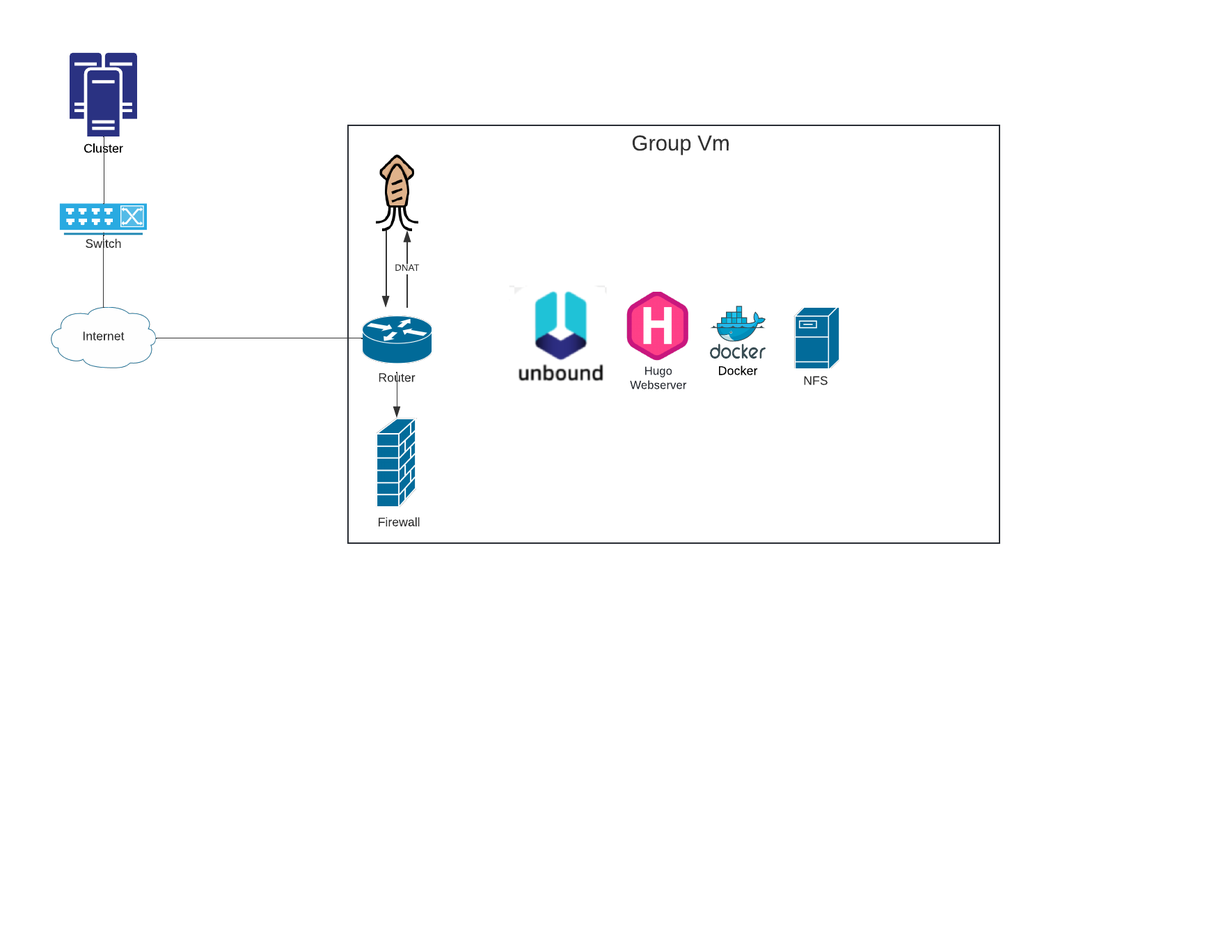
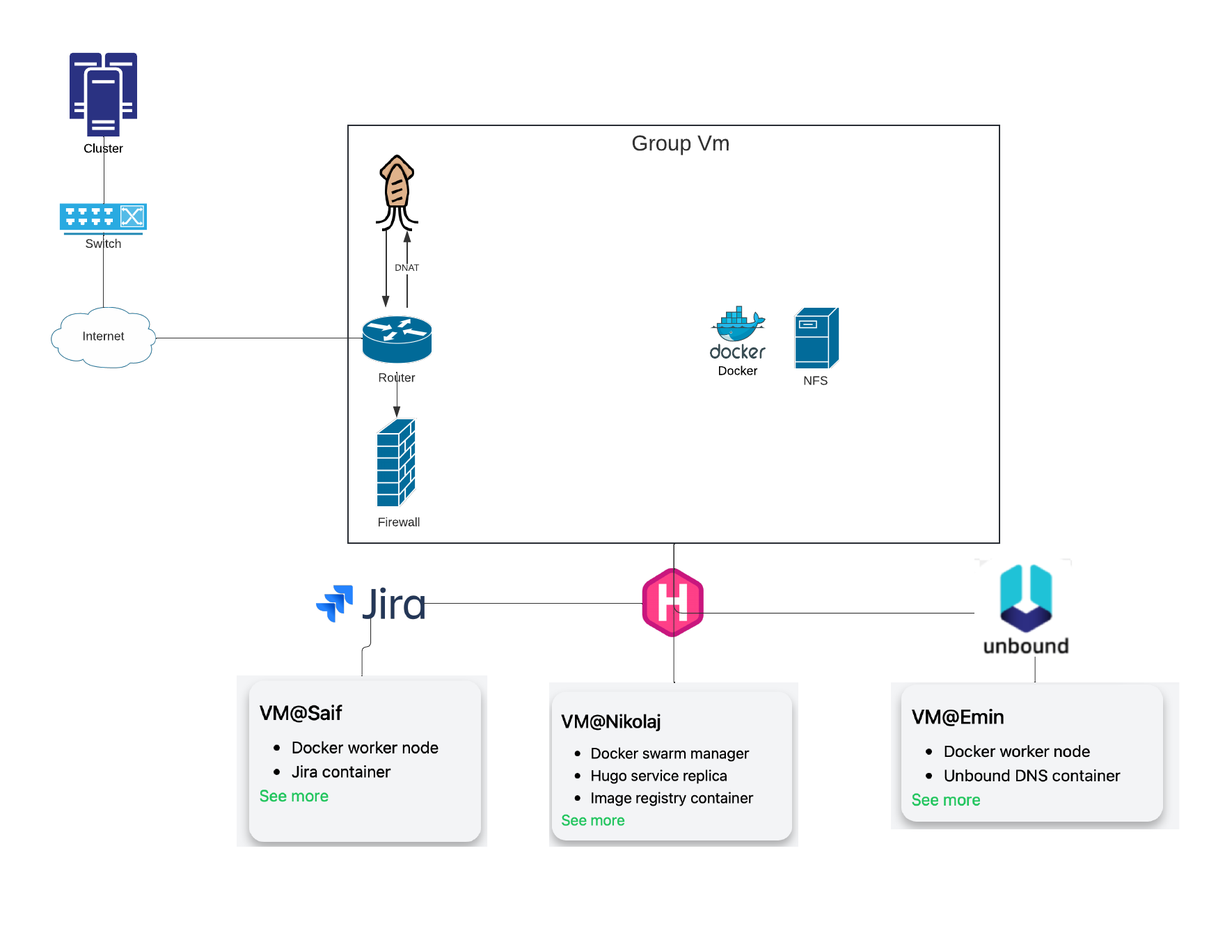
deploy: aa12359d3a3e7bc880986652725c461485541fc4

diff --git a/index.html b/index.html
@@ -113,10 +113,15 @@ for example authentication server, DNS server etc. Create a DMZ(a separate subne
 group number as subnet such as t1g1 is 10.11 and t1g2 is 10.12
 and so on ) <a href=./group-vm>See Custom ingress in section: Group-vm</a></li><li><input checked disabled type=checkbox> Update the firewall to allow limited traffic from DMZ only to
 be able to use that service <a href=./group-vm>See Mad docker in section:
-Group-vm</a></li></ol></li><li>In your individual VM<ol><li><input checked disabled type=checkbox> Setup & Configure the LXD or docker</li><li><input disabled type=checkbox> <del>[optional] get ip address for LXD or Docker from dhcp server on
+Group-vm</a></li></ol></li><li>In your individual VM<ol><li><input checked disabled type=checkbox> Setup & Configure the LXD or docker <a href=./>See Host cards in section:
+T8G1-Skylab</a></li><li><input disabled type=checkbox> <del>[optional] get ip address for LXD or Docker from dhcp server on
 groupVM</del></li><li><input checked disabled type=checkbox> Setup security for your individual server and the containers
 you will run <a href=./nikolaj-vm>See Security in section: nikolaj-vm</a></li><li><input checked disabled type=checkbox> Discuss the security and other networking considerations for keeping containers isolated from local
-network and making them available over the local network <a href=./nikolaj-vm>See Security in section: nikolaj-vm</a></li></ol></li><li>Design a network topology (not configure) for the whole group<ol><li><input disabled type=checkbox> Database server (mysql, mongo,postgres)</li><li><input disabled type=checkbox> Webserver (nginx,apache, caddy)</li><li><input disabled type=checkbox> Real time communication server (jitsi, matrix)</li><li><input disabled type=checkbox> Git server</li><li><input disabled type=checkbox> Any other type of container you think will be relevant</li><li><input disabled type=checkbox> File server (Seafile, owncloud,nextcloud)</li></ol></li><li><input disabled type=checkbox> Decide where in the topology will you place the various servers. Setting up lxd on GroupVM is not a trivial task
+network and making them available over the local network <a href=./nikolaj-vm>See Security in section: nikolaj-vm</a></li></ol></li><li>Design a network topology (not configure) for the whole group<ol><li><input disabled type=checkbox> <del>Database server (mysql, mongo,postgres)</del></li><li><input disabled type=checkbox> Webserver (nginx,apache, caddy) <a href=./topology>See Topology in section:
+Topology</a></li><li><input disabled type=checkbox> <del>Real time communication server (jitsi, matrix)</del></li><li><input disabled type=checkbox> <del>Git server</del></li><li><input checked disabled type=checkbox> Any other type of container you think will be relevant <a href=./topology>See Topology in section:
+Topology</a></li><li><input checked disabled type=checkbox> File server (Seafile, owncloud,nextcloud) <a href=./topology>See Topology in section:
+Topology</a></li></ol></li><li><input checked disabled type=checkbox> Decide where in the topology will you place the various servers.
+Setting up lxd on GroupVM is not a trivial task
 so anything there has to docker but in the documentation you can
 argue if you would rather used lxd and why? <a href=./topology>See Containers in section:
 Topology</a></li><li><input checked disabled type=checkbox> Which virtualization technology between docker and lxd will you
@@ -129,5 +134,255 @@ individually and for the setup as a whole <a href=./group-vm>See Mad docker in s
 vulnerabilities in the server setup of other groups<ol><li><input disabled type=checkbox> <del>You can reconfigure your switch(just add the vlan of the group
 so that you can get ip from their dhcp) to access other groups local network in the class</del></li><li><input disabled type=checkbox> <del>Then you can run these vulnerability scanners like nmap and nikto to find out more about their network,
 services etc.</del></li><li><input disabled type=checkbox> <del>Document your findings, vulnerabilities and suggest way to protect/attack the vulnerabilities</del></li></ol></li></ol><p>62501 Linux Server and Network Course at DTU, spring 2022 edition.</p><h2 id=t8g1-skylab>T8G1-Skylab</h2><hr><h3 id=host-cards>Host cards</h3><p>This configuration contains four docker worker nodes with two of them
-assigned the swarm managing role.</p><p><carcontainer id=singlecard><span class=vm-card></span><div class=card><h2>VM@Group</h2><ul id=double><span class=group-list></span><li>Docker swarm manager</li><li>Squid proxy</li><li>Firewall</li><li>DHCP server</li></ul><a href=Group-vm>See more</a></div></p></div><div class=cardContainer><div class=card><h2>VM@Saif</h2><ul id=single><span class=student-list></span><li>Docker worker</li><li>Jira container</li></ul><a href=saif-vm>See more</a></div><div class=card><h2>VM@Nikolaj</h2><ul id=single><span class=student-list></span><li>Docker swarm manager</li><li>Hugo replica</li><li>Image registry</li></ul><a href=nikolaj-vm>See more</a></div><div class=card><h2>VM@Emin</h2><ul id=single><span class=student-list></span><li>Docker worker</li><li>Unbound DNS</li></ul><a href=emin-vm>See more</a></div></div><h2 id=read-the-reportt8g1-skylab-repporthtml><a href=t8g1-skylab-repport.html>Read the report</a></h2><hr class="border-b-2 border-gray-400 mt-8 mx-4"><div class="font-sans flex justify-between content-center px-4 pb-12"><div class=text-left></div><div class=text-right><p><a href=./group-vm class="break-normal text-base md:text-sm text-green-500 font-bold no-underline hover:underline">Next
+assigned the swarm managing role.</p><p><carcontainer id=singlecard><span class=vm-card></span><div class=card><h2>VM@Group</h2><ul id=double><span class=group-list></span><li>Docker swarm manager</li><li>Squid proxy</li><li>Firewall</li><li>DHCP server</li></ul><a href=group-vm>See more</a></div></p></div><div class=cardContainer><div class=card><h2>VM@Saif</h2><ul id=single><span class=student-list></span><li>Docker worker</li><li>Jira container</li></ul><a href=saif-vm>See more</a></div><div class=card><h2>VM@Nikolaj</h2><ul id=single><span class=student-list></span><li>Docker swarm manager</li><li>Hugo replica</li><li>Image registry</li></ul><a href=nikolaj-vm>See more</a></div><div class=card><h2>VM@Emin</h2><ul id=single><span class=student-list></span><li>Docker worker</li><li>Unbound DNS</li></ul><a href=emin-vm>See more</a></div></div><h2 id=read-the-reportt8g1-skylab-repporthtml><a href=t8g1-skylab-repport.html>Read the report</a></h2><h1 id=group-vm>Group VM</h1><h2 id=rootless-docker>Rootless docker</h2><hr><p>Installing docker on our group vm requires carefull considerations regarding the security measure already implemented.
+If a
+rootless docker principle is
+not established on the docker host, any container running will have root privileges which isn&rsquo;t really an issue for
+veteran sysadmins that knows have to restrict access to the docker daemon using aswell firewall or custom docker
+registries to allow only vetted and verified container images to run, but in the hands of non-experienced employee a
+non-rootless docker client will run any code within any docker image.
+The second major
+concern is regarding
+the iptables chains and rules applied to the group vm acting as the network&rsquo;s firewall. The group vm acts as a router
+for our
+internal network and routes network traffic between clients and forwards client trafic to the internet using Network
+Address so that any packets originating from our clients destined to the internet will have their source headers
+translated to that if the internet facing router i.e. our group host. Upon starting the docker daemon, the socket
+responsible for talking to the docker client service and the containers within, new docker specific chains and rules
+gets
+applied to the iptables with the <code>-I</code> prefix for insertion. This is not a major concern if your aware of
+this fact, but the <code>FORWARD</code> chain policy gets set to <code>DROP</code>
+requiring
+manual
+configuration to any
+docker host also acting as a router.
+From docker documentation this iptables rule is supplied to help reenable ip forwarding:</p><div class=highlight><pre style=color:#f8f8f2;background-color:#272822;-moz-tab-size:4;-o-tab-size:4;tab-size:4><code class=language-Sh data-lang=Sh> $ iptables -I DOCKER-USER -i src_if -o dst_if -j ACCEPT
+</code></pre></div><p>We&rsquo;ve opted to run the docker in root mode for a few reasons:</p><ol><li>We&rsquo;re under development and only configurations and log files could contain sensitive information about the
+networks' inner workings, parameters that would resemble many other networks thus if there were to be an exploit
+in our parameters we would likely be able to mitigate these before production.</li><li>Being forced to make the aforementioned critical considerations allows for a good learning environment, producing
+a highly skilled, security oriented IT staff.</li><li>Docker swarm isn&rsquo;t supported under rootless docker mode.</li></ol><h2 id=squid>Squid</h2><hr><h3 id=1-installing-docker-and-moving-squid-into-docker>1. Installing Docker and moving squid into docker:</h3><p>Using the default image registry supplied with docker, we pull and run the <code>ubuntu:squid</code> container using
+this run configuration to enable host network traficking directly to the squid container:</p><div class=highlight><pre style=color:#f8f8f2;background-color:#272822;-moz-tab-size:4;-o-tab-size:4;tab-size:4><code class=language-Sh data-lang=Sh>$ docker run -d --name squid -p  <span style=color:#ae81ff>\
+</span><span style=color:#ae81ff></span>         --volume /etc/squid/squid.conf:/etc/squid/squid.conf <span style=color:#ae81ff>\
+</span><span style=color:#ae81ff></span>         --volume /srv/docker/squid/log:/var/log/squid <span style=color:#ae81ff>\
+</span><span style=color:#ae81ff></span>         --volume /srv/docker/squid/cache:/var/cache/squid <span style=color:#ae81ff>\
+</span><span style=color:#ae81ff></span>         -e TZ<span style=color:#f92672>=</span>Europe/Copenhagen <span style=color:#ae81ff>\
+</span><span style=color:#ae81ff></span>         ubuntu/squid:latest
+</code></pre></div><h2 id=proxy>Proxy</h2><hr><h3 id=2-pass-all-traffic-from-group-vm-through-squid-and-adjust-firewall>2. Pass all traffic from group VM through squid and adjust firewall:</h3><p>Below configuration implements policy routing for separate gateway and
+squid hosts</p><div class=highlight><pre style=color:#f8f8f2;background-color:#272822;-moz-tab-size:4;-o-tab-size:4;tab-size:4><code class=language-Sh data-lang=Sh><span style=color:#75715e># IPv4 address of proxy</span>
+PROXYIP4<span style=color:#f92672>=</span> 192.168.0.10
+
+<span style=color:#75715e># IPv6 address of proxy</span>
+PROXYIP6<span style=color:#f92672>=</span> fe80:dead:beef::10
+
+<span style=color:#75715e># interface facing clients</span>
+CLIENTIFACE<span style=color:#f92672>=</span> eth0
+
+<span style=color:#75715e># arbitrary mark used to route packets by the firewall. May be anything \</span>
+<span style=color:#75715e># from 1 to 64.</span>
+FWMARK<span style=color:#f92672>=</span> <span style=color:#ae81ff>2</span>
+
+
+<span style=color:#75715e># permit Squid box out to the Internet</span>
+iptables -t mangle -A PREROUTING -p tcp --dport <span style=color:#ae81ff>80</span> -s $PROXYIP4 -j ACCEPT
+ip6tables -t mangle -A PREROUTING -p tcp --dport <span style=color:#ae81ff>80</span> -s $PROXYIP6 -j ACCEPT
+
+<span style=color:#75715e># mark everything else on port 80 to be routed to the Squid box</span>
+iptables -t mangle -A PREROUTING -i $CLIENTIFACE -p tcp --dport <span style=color:#ae81ff>80</span> -j <span style=color:#ae81ff>\
+</span><span style=color:#ae81ff></span>MARK --set-mark $FWMARK
+iptables -t mangle -A PREROUTING -m mark --mark $FWMARK -j ACCEPT
+ip6tables -t mangle -A PREROUTING -i $CLIENTIFACE -p tcp --dport <span style=color:#ae81ff>80</span> -j <span style=color:#ae81ff>\ </span>
+MARK --set-mark $FWMARK
+ip6tables -t mangle -A PREROUTING -m mark --mark $FWMARK -j ACCEPT
+
+<span style=color:#75715e># NP: Ensure that traffic from inside the network is allowed to loop \  </span>
+<span style=color:#75715e>#back inside again.</span>
+iptables -t filter -A FORWARD -i $CLIENTIFACE -o $CLIENTIFACE -p tcp <span style=color:#ae81ff>\ </span> 
+--dport <span style=color:#ae81ff>80</span> -j ACCEPT
+ip6tables -t filter -A FORWARD -i $CLIENTIFACE -o $CLIENTIFACE -p tcp <span style=color:#ae81ff>\ </span>
+ --dport <span style=color:#ae81ff>80</span> -j ACCEPT
+</code></pre></div><h3 id=3-pro-and-cons-to-using-a-proxy-for-all-traffic>3. Pro and cons to using a proxy for all traffic:</h3><p>There are several pros and cons to using a proxy server. Security wise, a proxy server helps with protecfting a clients computer. It works like a relay between the browser and the website, since the browser doesn&rsquo;t directly speak to the website, it has to go through the proxy first. The reason for the proxy to act as a relay is if the website tries something malicious, it will hit the proxy server and not the clients computer. A proxy server can also give a faster browsing experience on the clints most used sites, since a proxy server stores a local cache. Even when managing an office or a school, can a proxy server have its uses. By running all the workers/students browsing through the proxy, an administrator can easily monitor the webtraffic, since all browsing has to go through the proxy. Not only that a proxy server can also use to block specific websites eg. malicious websites, or even social media websites, to keep your employees from entering them.<br>What is then bad about proxy servers? Well not much, but if the provider of the proxy server has malicious intent, it could cause harm for the client. As mentioned earlier, a proxy server keeps a cache for a faster browsing experience and to save bandwidth. THe problem with that is it could also store private information like passwords and other details, which the provider of the proxy server can have or gain access to. For that reason it is important to have trusted provider, or create a proxy server inhouse.</p><h2 id=nfs>NFS</h2><hr><h3 id=4-have-a-common-folder-for-the-group-to-share-files-and-logs>4. Have a common folder for the group to share files and logs</h3><p>Firstly we create a folder for every individual on our group vm /usr/local/share with this kind of folder structure:</p><pre><code>/usr/local/share
+└─── nik
+│    │   files
+│    │   etc...
+│    └─  subfolders
+│   
+└─── emin
+│    │   files
+│    │   etc...
+│    └─  subfolders
+│
+└─── saif
+│     │   files
+│     │   etc...
+│     └─  subfolders
+│
+└─── shared
+      │   saif-logs.txt
+      │   emin-logs.txt
+      │   nik-logs.txt
+</code></pre><p>We want it so everyone can work within their own folders, and then use the share folder to share logs and other files. We want to make sure everyone only has access to their individual folder, while they all have access to the share folder. Although they should only be able to modify and delete their own files in the share folder.<br>First we want to make sure permissions are correct, and we start by adding a group, and a user for each individual. We then assign each individual to their own group and to the main group.</p><div class=highlight><pre style=color:#f8f8f2;background-color:#272822;-moz-tab-size:4;-o-tab-size:4;tab-size:4><code class=language-sh data-lang=sh>$ groupadd t8g1-skylab
+$ groupadd emin/nik/saif
+</code></pre></div><div class=highlight><pre style=color:#f8f8f2;background-color:#272822;-moz-tab-size:4;-o-tab-size:4;tab-size:4><code class=language-sh data-lang=sh>$ useradd emin/nik/saif
+</code></pre></div><div class=highlight><pre style=color:#f8f8f2;background-color:#272822;-moz-tab-size:4;-o-tab-size:4;tab-size:4><code class=language-sh data-lang=sh>$ usermod -a -G t8g1-skylab emin/nik/saif
+$ usermod -a -G emin/nik/saif emin/nik/saif
+</code></pre></div><p>After adding groups and assigning the individual users to the desired group we assign each directory to a group.</p><div class=highlight><pre style=color:#f8f8f2;background-color:#272822;-moz-tab-size:4;-o-tab-size:4;tab-size:4><code class=language-sh data-lang=sh>$ chgrp -R emin/nik/saif /usr/local/share/<span style=color:#f92672>(</span>emin/nik/saif<span style=color:#f92672>)</span>
+$ chgrp -R t8g1-skylab /usr/local/share/shared
+</code></pre></div><p>After assigning each directory to a group, we can then set permissions.</p><div class=highlight><pre style=color:#f8f8f2;background-color:#272822;-moz-tab-size:4;-o-tab-size:4;tab-size:4><code class=language-sh data-lang=sh>$ chmod g+w /usr/local/share/<span style=color:#f92672>(</span>emin/nik/saif<span style=color:#f92672>)</span>
+$ chmod g+w /usr/local/share/shared
+</code></pre></div><p>Now each individual has access to their own directory, and the all have access to the shared directory. Now we have to make it so only the creator of the file in the shared direcotry can modify it.</p><div class=highlight><pre style=color:#f8f8f2;background-color:#272822;-moz-tab-size:4;-o-tab-size:4;tab-size:4><code class=language-sh data-lang=sh>chmod +t /usr/local/share/shared
+</code></pre></div><p>We then setup an nfs server and mount our individual folder and the shared folder on our individual vms. We setup the nfs server on our group vm, and make sure we give rw access, so if the user mounting the nfs is in the correct group, he or she shoud have rw access.<br>To mount the nfs filesystem we need to have the nfs client package installed.</p><div class=highlight><pre style=color:#f8f8f2;background-color:#272822;-moz-tab-size:4;-o-tab-size:4;tab-size:4><code class=language-sh data-lang=sh>$ sudo apt install nfs-common
+</code></pre></div><p>Then we mount:</p><div class=highlight><pre style=color:#f8f8f2;background-color:#272822;-moz-tab-size:4;-o-tab-size:4;tab-size:4><code class=language-sh data-lang=sh>$ sudo mount -t nfs 192.168.165.1:/usr/local/share/<span style=color:#f92672>(</span>shared_or_emin...<span style=color:#f92672>)</span> /the_directory_we_want_to_mount_it_on_local_machine
+</code></pre></div><p>We can now through our own machine access our directories and the shared directory</p><h2 id=custom-ingress>Custom ingress</h2><hr><h3 id=6-install-a-service-in-docker-of-your-choosing-as-group-which-you>6. Install a service in docker of your choosing as group which you</h3><p>think will need to share amongst the group,
+for example authentication server, DNS server etc. Create a DMZ(a separate subnet –maybe a 10 subnet with your
+group number as subnet such as t1g1 is 10.11 and t1g2 is 10.12 and so on )</p><p>We&rsquo;ve opted to present a static website using Hugo and its official docker container as a service on the docker swarm.
+The
+service is created and attached to a
+custom ingress network which is a an overlay type network exclusive for docker nodes running in swarm mode. The ingress
+network and any other custom overlay networks are connected to the docker daemons physical network on each
+individiul node through a virtual bridge <code>docker_gwbridge</code> enabling each node accept trafic destined for
+the swarm service even when no task is running on the specific node. This relieves
+the need
+for for
+manually
+creating a subnet or DMZ zone on our dhcp
+server and negates the need for manipulating the iptables in our firewall, since this is done by the docker service. A
+docker swarm automatically
+initializes
+an overlay network called <code>ingress</code> which we reconfigured using the bellow commands:</p><div class=highlight><pre style=color:#f8f8f2;background-color:#272822;-moz-tab-size:4;-o-tab-size:4;tab-size:4><code class=language-Sh data-lang=Sh> $ docker network rm ingress
+ $ docker network create <span style=color:#ae81ff>\
+</span><span style=color:#ae81ff></span>    --driver overlay <span style=color:#ae81ff>\
+</span><span style=color:#ae81ff></span>    --ingress <span style=color:#ae81ff>\
+</span><span style=color:#ae81ff></span>    --subnet<span style=color:#f92672>=</span>10.81.0.0/16 <span style=color:#ae81ff>\
+</span><span style=color:#ae81ff></span>    --gateway<span style=color:#f92672>=</span>10.81.0.2 <span style=color:#ae81ff>\
+</span><span style=color:#ae81ff></span>    --opt com.docker.network.driver.mtu<span style=color:#f92672>=</span><span style=color:#ae81ff>1200</span> <span style=color:#ae81ff>\
+</span><span style=color:#ae81ff></span>    t8g1-ingress
+</code></pre></div><p>The ingress network, and any
+overlay type
+networks encrypts management trafic between the nodes rotating the AES key every 12 hours. A docker swarm
+also allows for splitting management and data trafic onto separate network interfaces using the
+<code>&ndash;advertise-addr</code> and <code>&ndash;datapath-addr</code> for each node when joining the swarm or at swarm
+initialization.
+Overlay networks such as the ingress network and any custom overlay networks acts
+as a
+load-balancing proxy for optimizing connections to the services within them, which a: improves loading time for
+requests to services with replicas i.e. multiple, indentical and independent tasks of a single service
+distributed in the swarm and b:
+enables
+sys-admins to create custom policies for updating services allowing rules to keep a certain amount of tasks running
+at all times during the update process and thus increasing availability to the service.<br>Only custom overlay networks i.e. networks created without the parameter and option: <code>&ndash;mode ingress</code> permits
+setting
+the
+attachable flag enabling
+standalone containers to attach to
+the network.
+It is recommended to always create separate custom overlay networks for independent services.</p><h2 id=mad-docker>Mad docker</h2><hr><h3 id=7-update-the-firewall-to-allow-limited-traffic-from-dmz-only-to-be-able-to-use-that-service>7. Update the firewall to allow limited traffic from DMZ only to be able to use that service</h3><p>As mentioned simple firewall rules gets cluttered by the docker clients running on each node. Extensive measure must
+be taken to secure the network and especially the containers running withing it.
+As a deafult docker will open any published ports from services and standalone containers to the external network,
+and running these services and containers in a non-rootless docker environment which is dictated by the docker
+engine when running docker in swarm mode, exposes the integrety of the entire network. Luckyli the official
+documentation for docker is an endless source of consideration and warnings regarding the &ldquo;feature&rdquo; and supplies
+several recommendations for securing the environment.
+Docker creates new iptables chains per default and drops all forwarding on the host, which is an issue for the group
+vm which also acts as a router. The following command reenables forwarding on the group vm:</p><div class=highlight><pre style=color:#f8f8f2;background-color:#272822;-moz-tab-size:4;-o-tab-size:4;tab-size:4><code class=language-Sh data-lang=Sh>$ iptables -I DOCKER-USER -i src_if -o dst_if -j ACCEPT
+</code></pre></div><p>When starting a service or a container created with the flags <code>&ndash;publish [host_port]:[container_port]</code>
+docker will
+insert
+rules in the
+DOCKER chain opening the specified host port on the interface upon which docker binds which is <code>0.0.0.0</code>
+by default. This means that docker will listen for any incomming requests on those ports from any interface on the
+host!
+A simply but not commonly known fix is to specifiy the entire host and port on which to listen for requests:
+<code>&ndash;publish 192.168.165.1:3128:3128</code>.
+At first having such a significant setting enabled by default seems malignant, but it actually offers a very
+opportune scenario where we can restrict access to the network pre-docker, blocking any and all
+trafic not originating
+from within the network, and let docker and running containers or services dictate which ports to open.
+We consider this way of configuring the firewall optimal given the requirements posed upon our network by
+docker.
+The following table implemented on our group vm drops all trafic except ssh trafic to the network, outgoing connections
+from withing the internal LAN and then uses the DOCKER_USER chain to insert custom rulesets that will do the very
+same thing only this chain superceeds the DOCKER chain that initializes once the docker service is running, this
+incremental configuration is remniscent of common UNIX package and services behavior where administrator are
+instructed or discouraged from altering the default configuration files and instead use custom user configuration
+which the package software will se as overruling to any default settings and also like how shell profile scripts
+exists at various levels for contemplating structured and context aware behavior such as simply providing defaults
+to multiple users and allowing users to overrule the defaults.</p><div class=highlight><pre style=color:#f8f8f2;background-color:#272822;-moz-tab-size:4;-o-tab-size:4;tab-size:4><code class=language-Sh data-lang=Sh><span style=color:#75715e>#!/bin/bash
+</span><span style=color:#75715e></span>INET_IF<span style=color:#f92672>=</span>eth0
+IPTABLES<span style=color:#f92672>=</span>/usr/sbin/iptables
+
+<span style=color:#75715e>#This will purge the firewall rules</span>
+$IPTABLES -F
+$IPTABLES -t nat -F
+$IPTABLES -X
+
+<span style=color:#75715e>#A new chain &#34;block&#34; is used and will new connection from within and </span>
+<span style=color:#75715e># accept only already established by LAN connections</span>
+<span style=color:#75715e>#Incoming tcp trafic is accepted to the default ssh port 22</span>
+<span style=color:#75715e>#Anything else gets droped ... but only until starting a docker</span>
+<span style=color:#75715e># container/service that listens on a port</span>
+$IPTABLES -N block
+$IPTABLES -A block -m conntrack --ctstate ESTABLISHED,RELATED -j ACCEPT
+$IPTABLES -A block -m conntrack --ctstate NEW ! -i  $INET_IF -j ACCEPT
+$IPTABLES -A block -p tcp --dport ssh -j ACCEPT
+$IPTABLES -A block -j DROP
+
+<span style=color:#75715e>#These chains gets redirected to the block chain, they&#39;re needed for</span>
+<span style=color:#75715e># actually providing the block chain with trafic</span>
+$IPTABLES -A INPUT -j block
+$IPTABLES -A FORWARD -j block
+
+<span style=color:#75715e>#Here we use the &#34;-I&#34; option to skip or circumvent any docker created</span>
+<span style=color:#75715e># rules and go straight to the block chain</span>
+<span style=color:#75715e>#This rule also works for reenabling FORWARDING on hosts running docker</span>
+<span style=color:#75715e># that also must suply routing capabilities </span>
+<span style=color:#75715e>#for our network</span>
+$IPTABLES -I DOCKER_USER -j block
+
+<span style=color:#75715e>#If external access is actually needed or if connection tracking isn&#39;t </span>
+<span style=color:#75715e># wanted from DOCKER originating packets</span>
+<span style=color:#75715e>#those rules must be prepended aswell to apply before the redirect rule</span>
+<span style=color:#75715e># above.</span>
+<span style=color:#75715e>#EXAMPLE: #iptables -I DOCKER-USER -i $src_if -o $dst_if -j ACCEPT</span>
+
+<span style=color:#75715e>#Masquerade</span>
+$IPTABLES -t nat -A POSTROUTING -o $INET_IF -j MASQUERADE
+</code></pre></div><h2 id=topology>Topology</h2><hr><h3 id=3-topology>3. Topology</h3><p><img src=./images/Networkdiagram.png width=800></p><p>We have now designed a sketch of our network topology, which can be seen in the picture above.
+In the diagram we show that we are hosting HUGO webserver in a docker
+container through subnet 10.81. We also used t8g1-ingress overlay network
+which has the benefits of automatically creating a subnet that of which,
+by
+our individual VM&rsquo;s strict firewall rules <a href=./nikolaj-vm>See Security in section: nikolaj-vm</a>, is isolated from the
+network and per docker&rsquo;s generous trafic acceptance strategy as in:
+accepting
+anything and everything from anywhere to everywhere, effectively becomes
+a DMZ zone.</p><h3 id=5-docker-or-lxd-for-our-server-and-why>5. Docker or lxd for our server, and why?</h3><p>We have chosen to go for docker on our server. There are a couple reasons for that. Our server is rather simple, we are hosting a website using Hugo, which already has an official docker container. So it seemed like a no-brainer. lxd has many advanced features that wouldn&rsquo;t be utilized in out setup, therefore i makes sense to use a more userfriendly and still powerful tool like docker. A problem with docker is that we can only run one concurrent process for each container, therefore setups with multiple docker containers are fairly standard. lxc on the other hand is more than capable of runnig multiple concurrent processes in one acontainer. Docker is also far more portable and depends more on the operating system it runs on than lxd. lxd is closest to a whole operating system out of the two, it operates like a vm machine, but without a fully kitted OS. Docker is less like a virtual machine in that regard as mentioned earlier it only handles one concurrent process, which makes it ideal to have a single program running in a container.</p><p>Another importatant reason why we went with docker, is that we discovered its swarm functionality, which is very easy to setup across multiple hosts. It is also very powerful. <a href=./group-vm>See Security in mad docker in section: group-vm</a> When utilizing the swarm functionality it does our dmz with the subnet for us in a much easier way, than it would have been if we were using lxd.</p><h2 id=docker-worker-node>Docker worker node</h2><hr><blockquote><p>Hugo task service</p></blockquote><h2 id=jira-container>Jira Container</h2><hr><p>In my personal vm i want to set up a jira container
+Since we want to be a hosting, deployment and infrastructure service, it would be essential to have a tool to help us with managing our projects. Jira is basically a ticket managing software, which will help us delegate work and help us with bug tracking.
+To set it up it will be as simple as to use the jiras docker image (I hope)</p><h2 id=containers>Containers</h2><hr><p>Apart from being the leading node and one of the two managers
+responsible for creating the custom overlay networks this host also
+participates in running one replica of the Hugo webservice distributed
+on the t8g1-ingress network.
+One standalone container running in host mode supplies a local
+registry which purpose is to ensure
+a higher level of network integrity by allowing only a subset of
+container images to be deployed throughout all docker nodes. This
+measure is highly relevant for docker clusters running in swarm mode
+where rootless docker is not supported <a href=./group-vm>See rootless docker in section:
+Group-vm</a></p><h2 id=security>Security</h2><hr><p>Our reasonably hardened firewall doesn&rsquo;t cover mitm attacks such as
+rouge services or containers, but by utilizing docker clients extensive
+nework measure and implementing the same overriding rule on each
+individual client running docker, we can lock back down all routes and
+isntead utilize the custom t8g1-ingress network created by a managing
+node such as Group VM or Nikolaj VM. Having two or more, managing nodes
+is highly recomend for fault taularance in case of e.g. network
+failures or a single unresponsive manager. We define similar iptables
+as the group vm, but importatantly is that upon initializing the docker
+daemon we configure it to bind to only the loopback and prohibits any
+trafic outside of the required ports for swarm overlay communication.</p><h2 id=unbound>Unbound</h2><hr><p>I want to implement an Unbound DNS in a container. Unbound is a
+recursive DNS resolver, which has the benefits of increasing online
+privacy. Furthermore, a user can encrypt communication because it
+supports DNS-over-HTTPS and DNS-over-TLS and unbound also makes sure
+that the data which is exchanged to the authoritative servers are
+limited. All this makes the DNS stronger which help to improve privacy.
+We want to use unbound because it is one of the best ways to secure a
+DNS server.</p><p>Group T8G1</p><p>Project Assignment</p><p>62501 Linux Server and Network Course at DTU, spring 2022 edition.</p><p><img src=./images/dtu-logo.png alt></p><p><img src=./images/dtu-logo.png width=200></p><hr class="border-b-2 border-gray-400 mt-8 mx-4"><div class="font-sans flex justify-between content-center px-4 pb-12"><div class=text-left></div><div class=text-right><p><a href=./group-vm class="break-normal text-base md:text-sm text-green-500 font-bold no-underline hover:underline">Next
 Page ></a></p></div></div></div></div><footer class="bg-white border-t border-gray-400 shadow"><div class="container max-w-4xl mx-auto flex py-8"><div class="w-full mx-auto flex flex-col"><div class="flex w-full"><div class="px-8 mx-auto"><ul class="pt-3 list-none px-0 flex"><li><a class="text-gray-600 no-underline py-2" href=./explainer-notebook.html><i data-feather=file-text class=footer-icon></i></a></li><li><a class="text-gray-600 no-underline py-2" href=https://github.com/realnikolaj/t8g1-skylab><i data-feather=github class=footer-icon></i></a></li><li><a class="text-gray-600 no-underline py-2" href=https://doc.opensuse.org><i data-feather=hard-drive class=footer-icon></i></a></li></ul></div></div><div class="w-full mx-auto text-center"><ul class="list-reset items-center text-md py-6 list-none flex"><li class=mx-auto><p class="inline-block text-gray-600 mx-4 font-semibold capitalized">Nikolaj S. Povlsen, Saif Ali, Emin Olcer</p></li></ul></div></div></div></footer><script>var h=document.documentElement,b=document.body,st='scrollTop',sh='scrollHeight',progress=document.querySelector('#progress'),scrollpos=window.scrollY,header=document.getElementById("header"),navcontent=document.getElementById("nav-content"),scroll;document.addEventListener('scroll',function(){scroll=(h[st]||b[st])/((h[sh]||b[sh])-h.clientHeight)*100,progress.style.setProperty('--scroll',scroll+'%'),scrollpos=window.scrollY,scrollpos>10?(header.classList.add("bg-white"),header.classList.add("shadow"),navcontent.classList.remove("bg-gray-100"),navcontent.classList.add("bg-white")):(header.classList.remove("bg-white"),header.classList.remove("shadow"),navcontent.classList.remove("bg-white"),navcontent.classList.add("bg-gray-100"))}),document.getElementById('nav-toggle').onclick=function(){document.getElementById("nav-content").classList.toggle("hidden")},feather.replace()</script></body></html>
